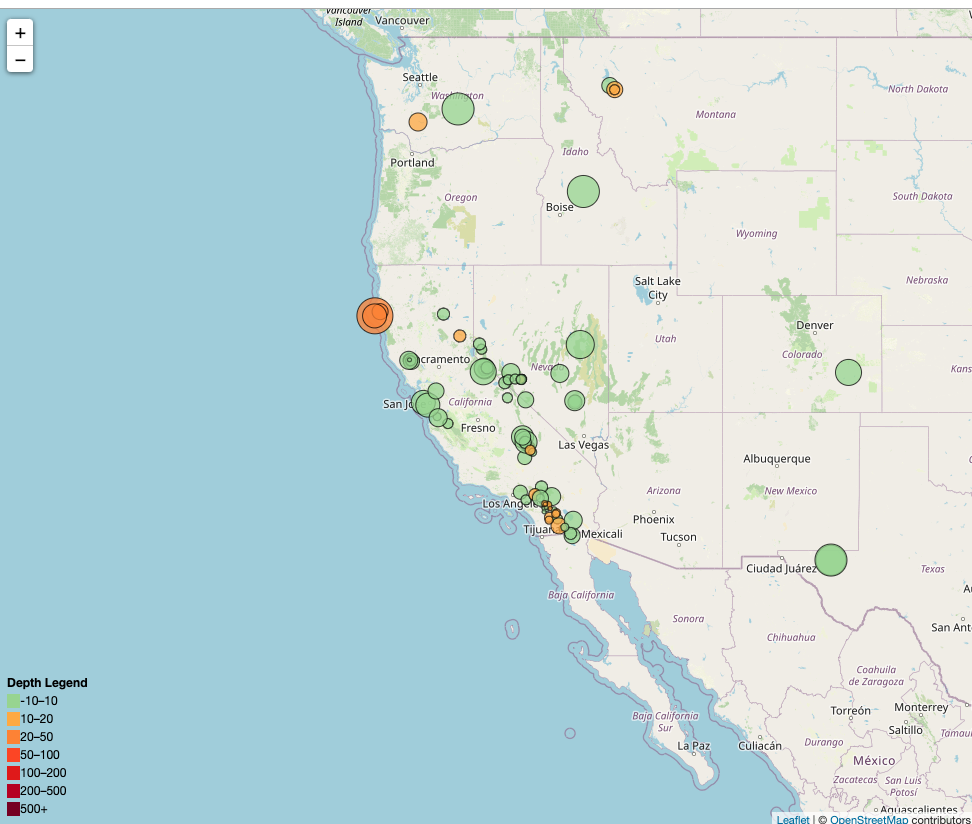
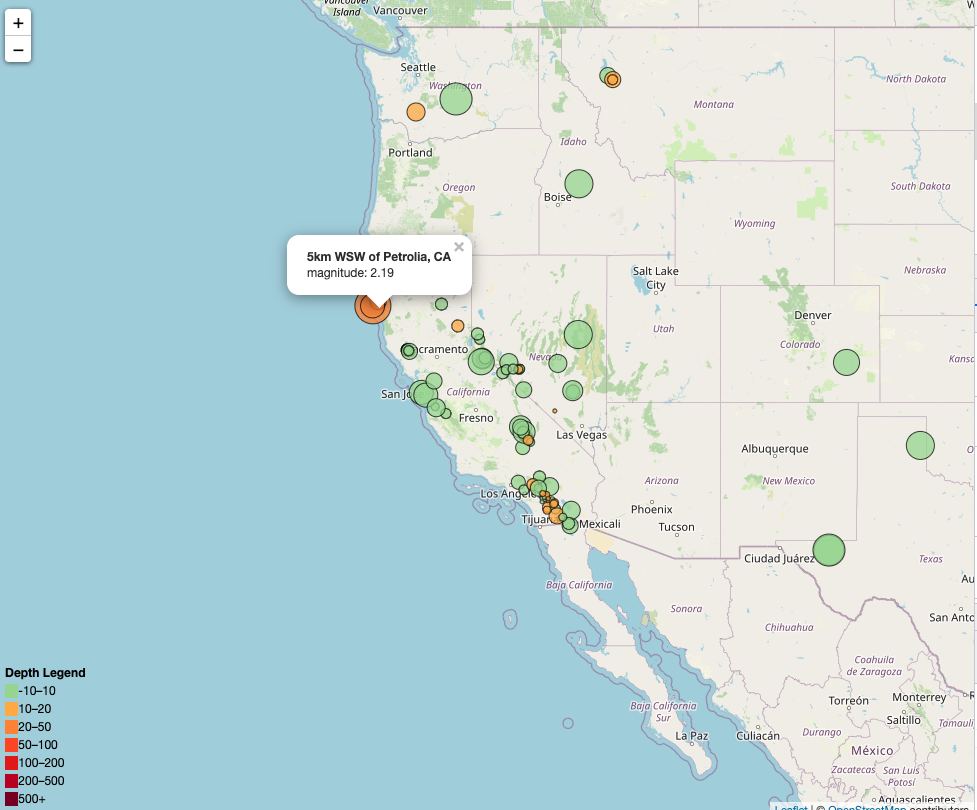
image update

diff --git a/static/js/logic.js b/static/js/logic.js
@@ -27,7 +27,7 @@ d3.json(url).then(function (data) {
             color: "black",
             weight: 0.75,
             fillOpacity: 0.75
-        }).bindPopup(feature.properties.place + `${depth}`).addTo(myMap)
+        }).bindPopup("<b>"+feature.properties.place+"</b><br>"+`magnitude: ${magnitude} `).addTo(myMap)
 
     }
     
